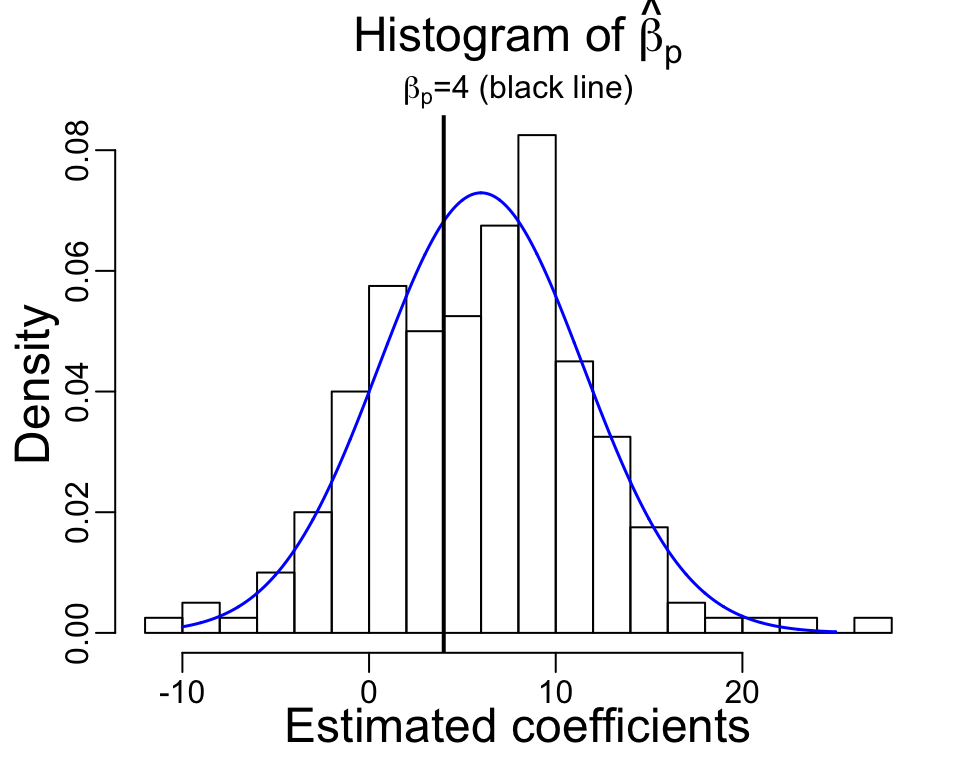
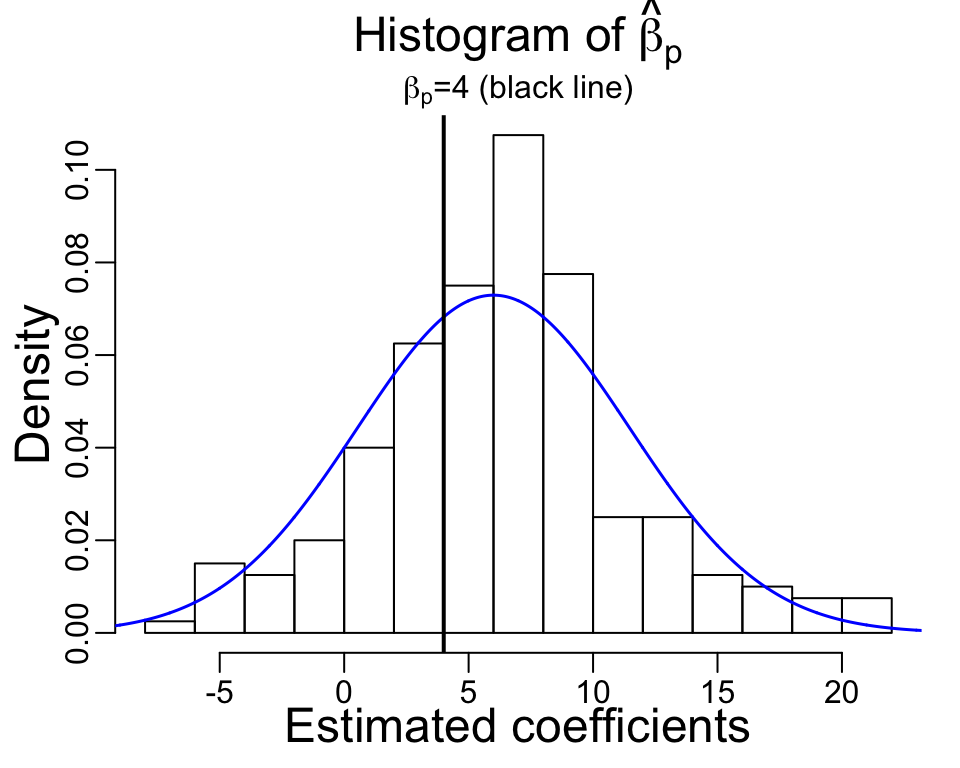
update

diff --git a/docs/articles/my-vignette.html b/docs/articles/my-vignette.html
@@ -82,7 +82,7 @@
       <h1 data-toc-skip>glmhd: statistical inference in high-dimensional binary regression</h1>
                         <h4 class="author">Qian Zhao</h4>
             
-            <h4 class="date">2020-10-10</h4>
+            <h4 class="date">2020-10-14</h4>
       
       <small class="dont-index">Source: <a href="https://github.com/zq00/glmhd/blob/master/vignettes/my-vignette.Rmd"><code>vignettes/my-vignette.Rmd</code></a></small>
       <div class="hidden name"><code>my-vignette.Rmd</code></div>
@@ -125,12 +125,12 @@
 <p>We repeat this function <span class="math inline">\(B = 200\)</span> times, and draw a histogram of the MLE of the <span class="math inline">\(p\)</span>th coefficient.</p>
 <div class="sourceCode"><html><body><pre class="r"><span class="no">beta_hat</span> <span class="kw">&lt;-</span> <span class="fu"><a href="https://rdrr.io/r/base/lapply.html">replicate</a></span>(<span class="no">B</span> <span class="kw">&lt;-</span> <span class="fl">200</span>, <span class="fu">sample_logistic</span>(<span class="no">n</span>, <span class="no">beta</span>, <span class="no">R</span>))</pre></body></html></div>
 <p><img src="my-vignette_files/figure-html/unnamed-chunk-7-1.png" width="480" style="display: block; margin: auto;"></p>
-<p>As we can see, the estimated <span class="math inline">\(\hat{\beta}\)</span> is not centered at the true value <span class="math inline">\(\beta = 4\)</span> (black line). The average <span class="math inline">\(\hat{\beta}\)</span> is at 5.898, which is larger. If we look at a single simulation below, the estimated standard error of <span class="math inline">\(\hat{\beta}_p\)</span> is 4.213, which is smaller than the observed standard deviation 5.087 from the independent samples.</p>
+<p>As we can see, the estimated <span class="math inline">\(\hat{\beta}\)</span> is not centered at the true value <span class="math inline">\(\beta = 4\)</span> (black line). The average <span class="math inline">\(\hat{\beta}\)</span> is at 6.319, which is larger. If we look at a single simulation below, the estimated standard error of <span class="math inline">\(\hat{\beta}_p\)</span> is 4.5, which is smaller than the observed standard deviation 5.12 from the independent samples.</p>
 <div class="sourceCode"><html><body><pre class="r"><span class="no">X</span> <span class="kw">&lt;-</span> <span class="fu"><a href="https://rdrr.io/r/base/matrix.html">matrix</a></span>(<span class="fu"><a href="https://rdrr.io/r/stats/Normal.html">rnorm</a></span>(<span class="no">n</span> * <span class="no">p</span>, <span class="fl">0</span>, <span class="fl">1</span>), <span class="no">n</span>, <span class="no">p</span>) <span class="kw">%*%</span> <span class="no">R</span> / <span class="fu"><a href="https://rdrr.io/r/base/MathFun.html">sqrt</a></span>(<span class="no">n</span>)
 <span class="no">Y</span> <span class="kw">&lt;-</span> <span class="fu"><a href="https://rdrr.io/r/stats/Binomial.html">rbinom</a></span>(<span class="no">n</span>, <span class="fl">1</span>, <span class="fl">1</span> / (<span class="fl">1</span> + <span class="fu"><a href="https://rdrr.io/r/base/Log.html">exp</a></span>(- <span class="no">X</span> <span class="kw">%*%</span> <span class="no">beta</span>)))
 <span class="no">fit</span> <span class="kw">&lt;-</span> <span class="fu"><a href="https://rdrr.io/r/stats/glm.html">glm</a></span>(<span class="no">Y</span> ~ <span class="no">X</span> + <span class="fl">0</span>, <span class="kw">family</span> <span class="kw">=</span> <span class="no">binomial</span>)</pre></body></html></div>
 <div class="sourceCode"><html><body><pre class="r"><span class="fu"><a href="https://rdrr.io/r/base/summary.html">summary</a></span>(<span class="no">fit</span>)$<span class="no">coef</span>[<span class="no">p</span>,<span class="fl">2</span>] <span class="co"># estimated std. from inverse Fisher information</span>
-<span class="co">#&gt; [1] 4.21</span></pre></body></html></div>
+<span class="co">#&gt; [1] 4.5</span></pre></body></html></div>
 <p>In general, as <span class="math inline">\(n, p\to\infty\)</span> at a fixed ratio <span class="math inline">\(p / n\to \kappa \in (0, 1)\)</span>, and if the variables <span class="math inline">\(X\)</span> to be multivariate Gaussian, the MLE of any coordinate <span class="math inline">\(\beta_j\)</span> satisfies <span class="math display">\[
 \frac{\hat{\beta}_j^\mathrm{MLE} - \alpha_\star \beta_j}{\sigma_\star / \tau_j} \stackrel{d}{\longrightarrow} \mathcal{N}(0, 1),
 \]</span> where <span class="math inline">\(\tau^2_j = \mathrm{Var}(x_j\,|\,x_{-j})\)</span> is the conditional variance of <span class="math inline">\(j\)</span>th variable given all the others [1]. These parameters <span class="math inline">\((\alpha_\star, \sigma_\star)\)</span> can be computed given <span class="math inline">\(\kappa = p/n\)</span> and <span class="math inline">\(\gamma = \sqrt{\mathrm{Var}(X^\top \beta)}\)</span>. In this example, <span class="math display">\[
@@ -147,20 +147,20 @@
 <span class="no">fit</span> <span class="kw">&lt;-</span> <span class="fu"><a href="https://rdrr.io/r/stats/glm.html">glm</a></span>(<span class="no">Y</span> ~ <span class="no">X</span> + <span class="fl">0</span>, <span class="kw">family</span> <span class="kw">=</span> <span class="no">binomial</span>, <span class="kw">x</span> <span class="kw">=</span> <span class="fl">TRUE</span>, <span class="kw">y</span> <span class="kw">=</span> <span class="fl">TRUE</span>)</pre></body></html></div>
 <p>Now we call the function <code>adjust_glm</code> to compute the adjusted MLE and standard error. There are three arguments for this function, but you only need to input the first one, the output <code>glm</code> object. Below, the second argument and third arguments are set at their default values, <code>verbose</code> specifies if progress should be printed, and <code>echo = TRUE</code> means that the input <code>glm</code> object is also returned in the output. Setting<code>verbose = TRUE</code> helps to track progress of the code, and identify issues if the algorithm fails.</p>
 <div class="sourceCode"><html><body><pre class="r"><span class="no">adjusted_fit</span> <span class="kw">&lt;-</span> <span class="fu"><a href="../reference/adjust_glm.html">adjust_glm</a></span>(<span class="no">fit</span>, <span class="kw">verbose</span> <span class="kw">=</span> <span class="fl">FALSE</span>, <span class="kw">echo</span> <span class="kw">=</span> <span class="fl">TRUE</span>)</pre></body></html></div>
-<p>You can access the estimated parameters through <code>adjusted_fit$param</code>. In this vector, <code>adjusted_fit$param["alpha_s"]</code> is estimated <span class="math inline">\(\alpha_\star\)</span> and <code>adjusted_fit$param["sigma_s"]</code> is estimated <span class="math inline">\(\sqrt{\kappa}\sigma_\star\)</span>. For example, you can compare the estimated inflation 1.426 with the observed value 1.475.</p>
+<p>You can access the estimated parameters through <code>adjusted_fit$param</code>. In this vector, <code>adjusted_fit$param["alpha_s"]</code> is estimated <span class="math inline">\(\alpha_\star\)</span> and <code>adjusted_fit$param["sigma_s"]</code> is estimated <span class="math inline">\(\sqrt{\kappa}\sigma_\star\)</span>. For example, you can compare the estimated inflation 1.468 with the observed value 1.58.</p>
 <div class="sourceCode"><html><body><pre class="r"><span class="no">adjusted_fit</span>$<span class="no">param</span>[<span class="st">"alpha_s"</span>] <span class="co"># Estimated inflation</span>
 <span class="co">#&gt; alpha_s </span>
-<span class="co">#&gt;    1.43</span>
+<span class="co">#&gt;    1.47</span>
 <span class="no">adjusted_fit</span>$<span class="no">param</span>[<span class="st">"sigma_s"</span>] / <span class="fu"><a href="https://rdrr.io/r/base/MathFun.html">sqrt</a></span>(<span class="no">p</span>/<span class="no">n</span>) <span class="co"># estimated sigma_star</span>
 <span class="co">#&gt; sigma_s </span>
-<span class="co">#&gt;     4.2</span></pre></body></html></div>
+<span class="co">#&gt;    4.51</span></pre></body></html></div>
 <p>You can obtain the adjusted MLE <span class="math inline">\(\hat{\beta}^\mathrm{Adj}_p = \hat{\beta}_p^\mathrm{MLE} / \alpha_\star\)</span> and the adjusted standard error estimate <span class="math inline">\(\sigma_\star / \tau_j\)</span> as follows.</p>
 <div class="sourceCode"><html><body><pre class="r"><span class="no">adjusted_fit</span>$<span class="no">coef_adj</span>[<span class="no">p</span>] <span class="co"># Adjusted MLE</span>
-<span class="co">#&gt; X200 </span>
-<span class="co">#&gt; 9.62</span>
+<span class="co">#&gt;   X200 </span>
+<span class="co">#&gt; -0.295</span>
 <span class="no">adjusted_fit</span>$<span class="no">std_adj</span>[<span class="no">p</span>] <span class="co"># Adjusted std. </span>
 <span class="co">#&gt; X200 </span>
-<span class="co">#&gt; 4.82</span></pre></body></html></div>
+<span class="co">#&gt; 5.29</span></pre></body></html></div>
 <p>Next, <code><a href="https://rdrr.io/r/base/summary.html">summary(adjusted_fit)</a></code> prints the coefficient table. The first column is the adjusted MLE, the second column is <span class="math inline">\(\hat{\sigma}_j / \alpha_\star\)</span>, because the adjusted MLE satisfies <span class="math display">\[
 \frac{\hat{\beta}_j^\mathrm{Adj} - \beta_j}{\hat{\sigma}_j / \alpha_\star} \approx \mathcal{N}(0, 1),
 \]</span> for <span class="math inline">\(\hat{\sigma}_j = \sigma_\star / \tau_j\)</span> the adjusted std. estimate.</p>
@@ -168,15 +168,15 @@
 <span class="co">#&gt; Call:</span>
 <span class="co">#&gt; adjust_glm(glm_output = fit, verbose = FALSE, echo = TRUE)</span>
 <span class="co">#&gt; </span>
-<span class="co">#&gt;      adjusted_mle      std z.value p.value    </span>
-<span class="co">#&gt; X1        -3.0757   3.4832   -0.88 0.37722    </span>
-<span class="co">#&gt; X2         3.0828   3.9776    0.78 0.43831    </span>
-<span class="co">#&gt; X3        -3.2437   3.7631   -0.86 0.38870    </span>
-<span class="co">#&gt; X4         1.6675   3.7871    0.44 0.65972    </span>
-<span class="co">#&gt; X5         4.6672   3.7859    1.23 0.21766    </span>
-<span class="co">#&gt; X6        -3.2132   3.7248   -0.86 0.38833    </span>
-<span class="co">#&gt; X7         4.4828   3.6796    1.22 0.22312    </span>
-<span class="co">#&gt; X8        -5.6674   3.6015   -1.57 0.11558    </span>
+<span class="co">#&gt;      adjusted_mle     std z.value p.value    </span>
+<span class="co">#&gt; X1        -4.1752  3.5669   -1.17 0.24179    </span>
+<span class="co">#&gt; X2        -0.2684  4.0130   -0.07 0.94668    </span>
+<span class="co">#&gt; X3         4.3224  3.9439    1.10 0.27309    </span>
+<span class="co">#&gt; X4        -1.7159  4.0581   -0.42 0.67243    </span>
+<span class="co">#&gt; X5        -2.0337  4.0036   -0.51 0.61147    </span>
+<span class="co">#&gt; X6        -1.9952  3.8786   -0.51 0.60696    </span>
+<span class="co">#&gt; X7         3.2441  3.8600    0.84 0.40066    </span>
+<span class="co">#&gt; X8         3.8245  4.1671    0.92 0.35873    </span>
 <span class="co">#&gt;  [ reached getOption("max.print") -- omitted 192 rows ]</span>
 <span class="co">#&gt; ---</span>
 <span class="co">#&gt; Signif. codes:  0 '***' 0.001 '**' 0.01 '*' 0.05 '.' 0.1 ' ' 1</span></pre></body></html></div>
@@ -207,8 +207,8 @@ H_0:\quad \beta_1 = \ldots = \beta_k = 0,
 <span class="co">#&gt; </span>
 <span class="co">#&gt; $anova.tab</span>
 <span class="co">#&gt;   Resid.Df Resid.Dev Df Deviance p.value</span>
-<span class="co">#&gt; 1      801       698 NA       NA      NA</span>
-<span class="co">#&gt; 2      800       697  1     1.06   0.386</span>
+<span class="co">#&gt; 1      801       671 NA       NA      NA</span>
+<span class="co">#&gt; 2      800       669  1     2.01    0.24</span>
 <span class="co">#&gt; </span>
 <span class="co">#&gt; attr(,"class")</span>
 <span class="co">#&gt; [1] "lrt_adj"</span></pre></body></html></div>
@@ -238,32 +238,32 @@ H_0:\quad \beta_1 = \ldots = \beta_k = 0,
 }</pre></body></html></div>
 <div class="sourceCode"><html><body><pre class="r"><span class="no">beta_hat</span> <span class="kw">&lt;-</span> <span class="fu"><a href="https://rdrr.io/r/base/lapply.html">replicate</a></span>(<span class="no">B</span>, <span class="fu">sample_logistic_intercept</span>(<span class="no">n</span>, <span class="no">beta</span>, <span class="no">R</span>))</pre></body></html></div>
 <p><img src="my-vignette_files/figure-html/unnamed-chunk-21-1.png" width="480" style="display: block; margin: auto;"></p>
-<p>The observed inflation in 200 samples is 1.452 and observed standard deviation is 5.894. The theoretical density curve of <span class="math inline">\(\hat{\beta}_p\)</span> is shown in blue, and it agrees well with the histogram of <span class="math inline">\(\hat{\beta}_p\)</span>.</p>
+<p>The observed inflation in 200 samples is 1.588 and observed standard deviation is 5.18. The theoretical density curve of <span class="math inline">\(\hat{\beta}_p\)</span> is shown in blue, and it agrees well with the histogram of <span class="math inline">\(\hat{\beta}_p\)</span>.</p>
 <p>You can use the same function <code>adjust_glm</code> to compute the adjusted MLE <span class="math inline">\(\hat{\beta}_j^\mathrm{Adj} = \hat{\beta}_j^\mathrm{MLE} / \alpha_\star\)</span> and adjusted standard error <span class="math inline">\(\sigma_\star / \tau_j\)</span> without knowing the true parameters.</p>
 <div class="sourceCode"><html><body><pre class="r"><span class="no">X</span> <span class="kw">&lt;-</span> <span class="fu"><a href="https://rdrr.io/r/base/matrix.html">matrix</a></span>(<span class="fu"><a href="https://rdrr.io/r/stats/Normal.html">rnorm</a></span>(<span class="no">n</span> * <span class="no">p</span>, <span class="fl">0</span>, <span class="fl">1</span>), <span class="no">n</span>, <span class="no">p</span>) <span class="kw">%*%</span> <span class="no">R</span> / <span class="fu"><a href="https://rdrr.io/r/base/MathFun.html">sqrt</a></span>(<span class="no">n</span>)
 <span class="no">Y</span> <span class="kw">&lt;-</span> <span class="fu"><a href="https://rdrr.io/r/stats/Binomial.html">rbinom</a></span>(<span class="no">n</span>, <span class="fl">1</span>, <span class="fl">1</span> / (<span class="fl">1</span> + <span class="fu"><a href="https://rdrr.io/r/base/Log.html">exp</a></span>(- <span class="no">X</span> <span class="kw">%*%</span> <span class="no">beta</span> + <span class="fl">0.5</span>)))
 <span class="no">fit</span> <span class="kw">&lt;-</span> <span class="fu"><a href="https://rdrr.io/r/stats/glm.html">glm</a></span>(<span class="no">Y</span> ~ <span class="no">X</span>, <span class="kw">family</span> <span class="kw">=</span> <span class="no">binomial</span>, <span class="kw">x</span> <span class="kw">=</span> <span class="fl">TRUE</span>, <span class="kw">y</span> <span class="kw">=</span> <span class="fl">TRUE</span>)</pre></body></html></div>
 <div class="sourceCode"><html><body><pre class="r"><span class="co"># Adjust MLE coefficients</span>
 <span class="no">adjusted_fit</span> <span class="kw">&lt;-</span> <span class="fu"><a href="../reference/adjust_glm.html">adjust_glm</a></span>(<span class="no">fit</span>, <span class="kw">verbose</span> <span class="kw">=</span> <span class="fl">FALSE</span>)</pre></body></html></div>
-<p><code>adjusted_fit$intercept</code> returns the estimated intercept, which you can compare with the MLE -0.716.</p>
+<p><code>adjusted_fit$intercept</code> returns the estimated intercept, which you can compare with the MLE -0.837.</p>
 <div class="sourceCode"><html><body><pre class="r"><span class="no">adjusted_fit</span>$<span class="no">intercept</span>
-<span class="co">#&gt; numeric(0)</span></pre></body></html></div>
+<span class="co">#&gt; [1] -0.507</span></pre></body></html></div>
 <p>You can also find the estimated inflation and standard deviation like before.</p>
 <div class="sourceCode"><html><body><pre class="r"><span class="co"># Estimated inflation and std.</span>
 <span class="no">adjusted_fit</span>$<span class="no">param</span>[<span class="st">"alpha_s"</span>]
 <span class="co">#&gt; alpha_s </span>
-<span class="co">#&gt;    1.57</span>
+<span class="co">#&gt;     1.5</span>
 <span class="no">adjusted_fit</span>$<span class="no">param</span>[<span class="st">"sigma_s"</span>] / <span class="fu"><a href="https://rdrr.io/r/base/MathFun.html">sqrt</a></span>(<span class="no">p</span>/<span class="no">n</span>)
 <span class="co">#&gt; sigma_s </span>
-<span class="co">#&gt;    5.22</span>
+<span class="co">#&gt;    4.74</span>
 <span class="co"># Adjusted MLE</span>
 <span class="no">adjusted_fit</span>$<span class="no">coef_adj</span>[<span class="no">p</span>]
 <span class="co">#&gt; X200 </span>
-<span class="co">#&gt;   12</span>
+<span class="co">#&gt; 0.64</span>
 <span class="co"># Adjusted std.</span>
 <span class="no">adjusted_fit</span>$<span class="no">std_adj</span>[<span class="no">p</span>]
 <span class="co">#&gt; X200 </span>
-<span class="co">#&gt; 6.02</span></pre></body></html></div>
+<span class="co">#&gt; 5.58</span></pre></body></html></div>
 </div>
 <div id="other-link-functions" class="section level4">
 <h4 class="hasAnchor">
